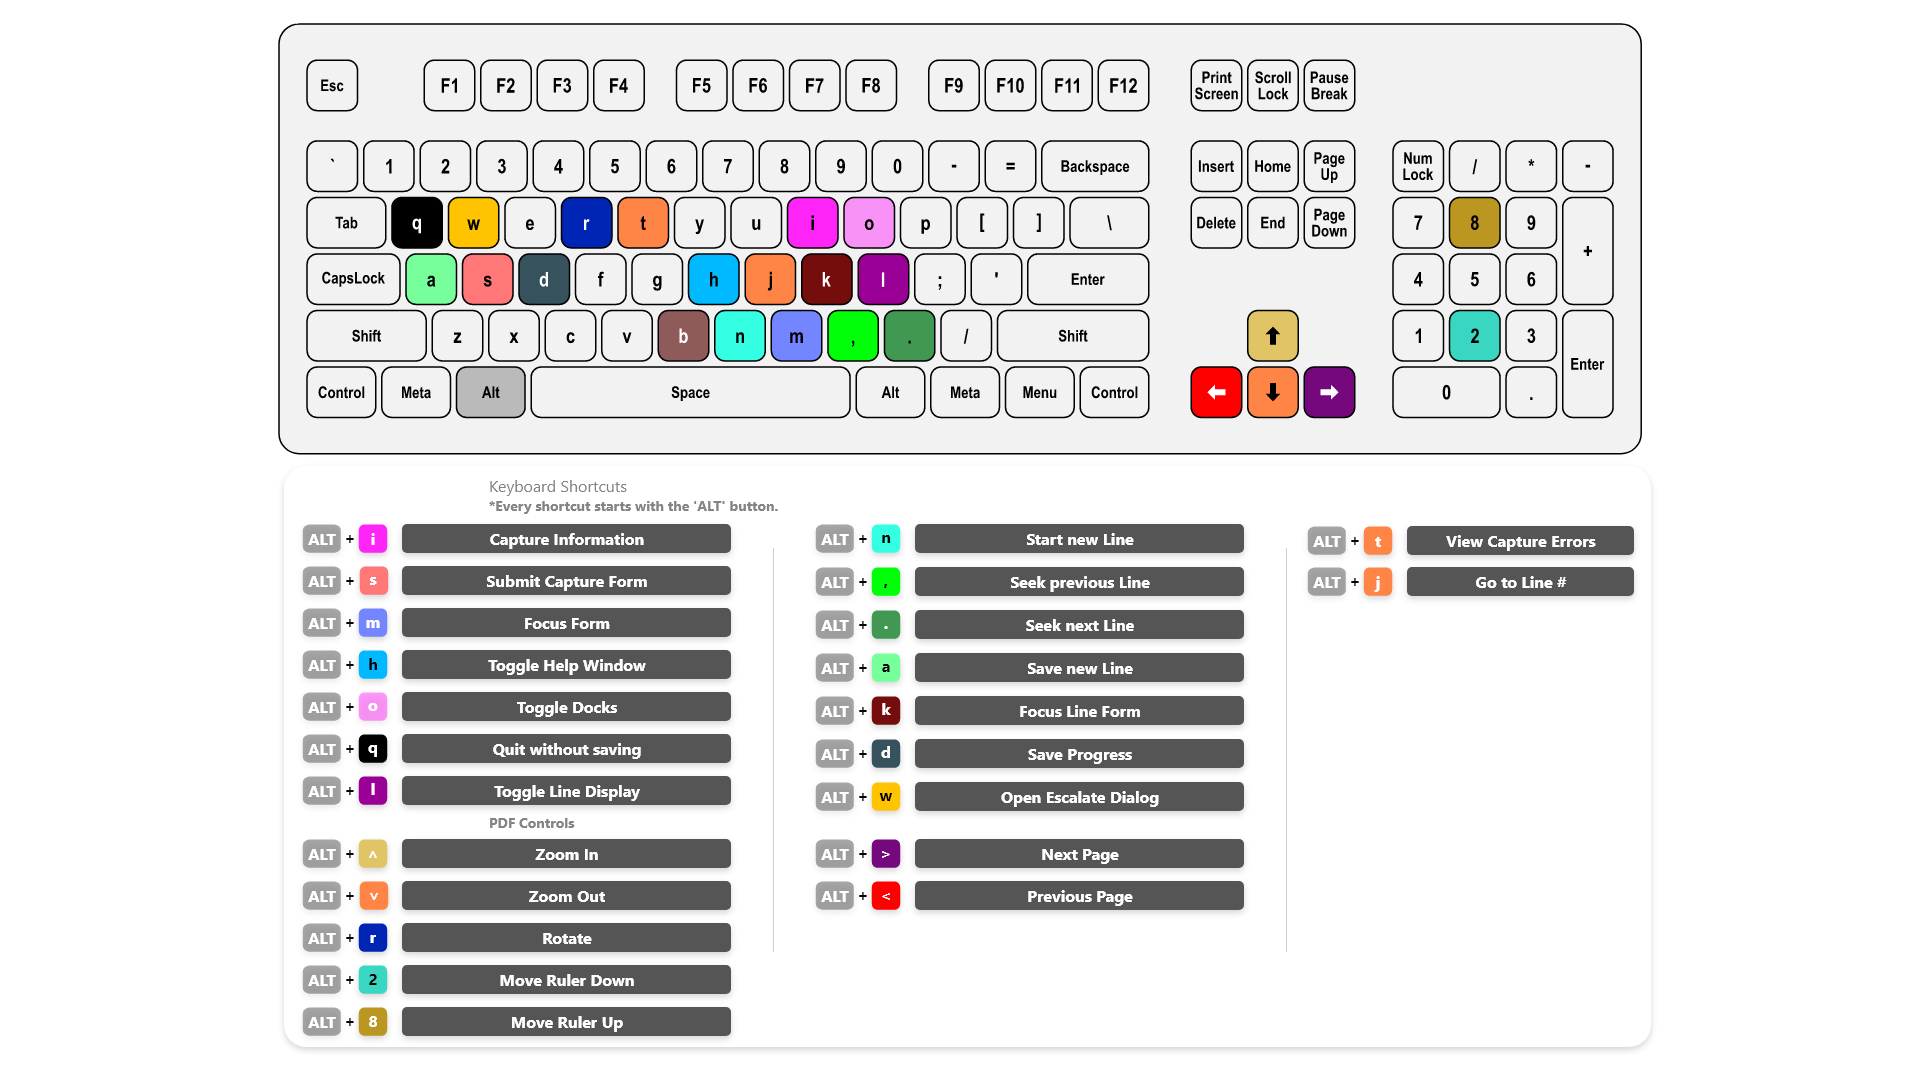
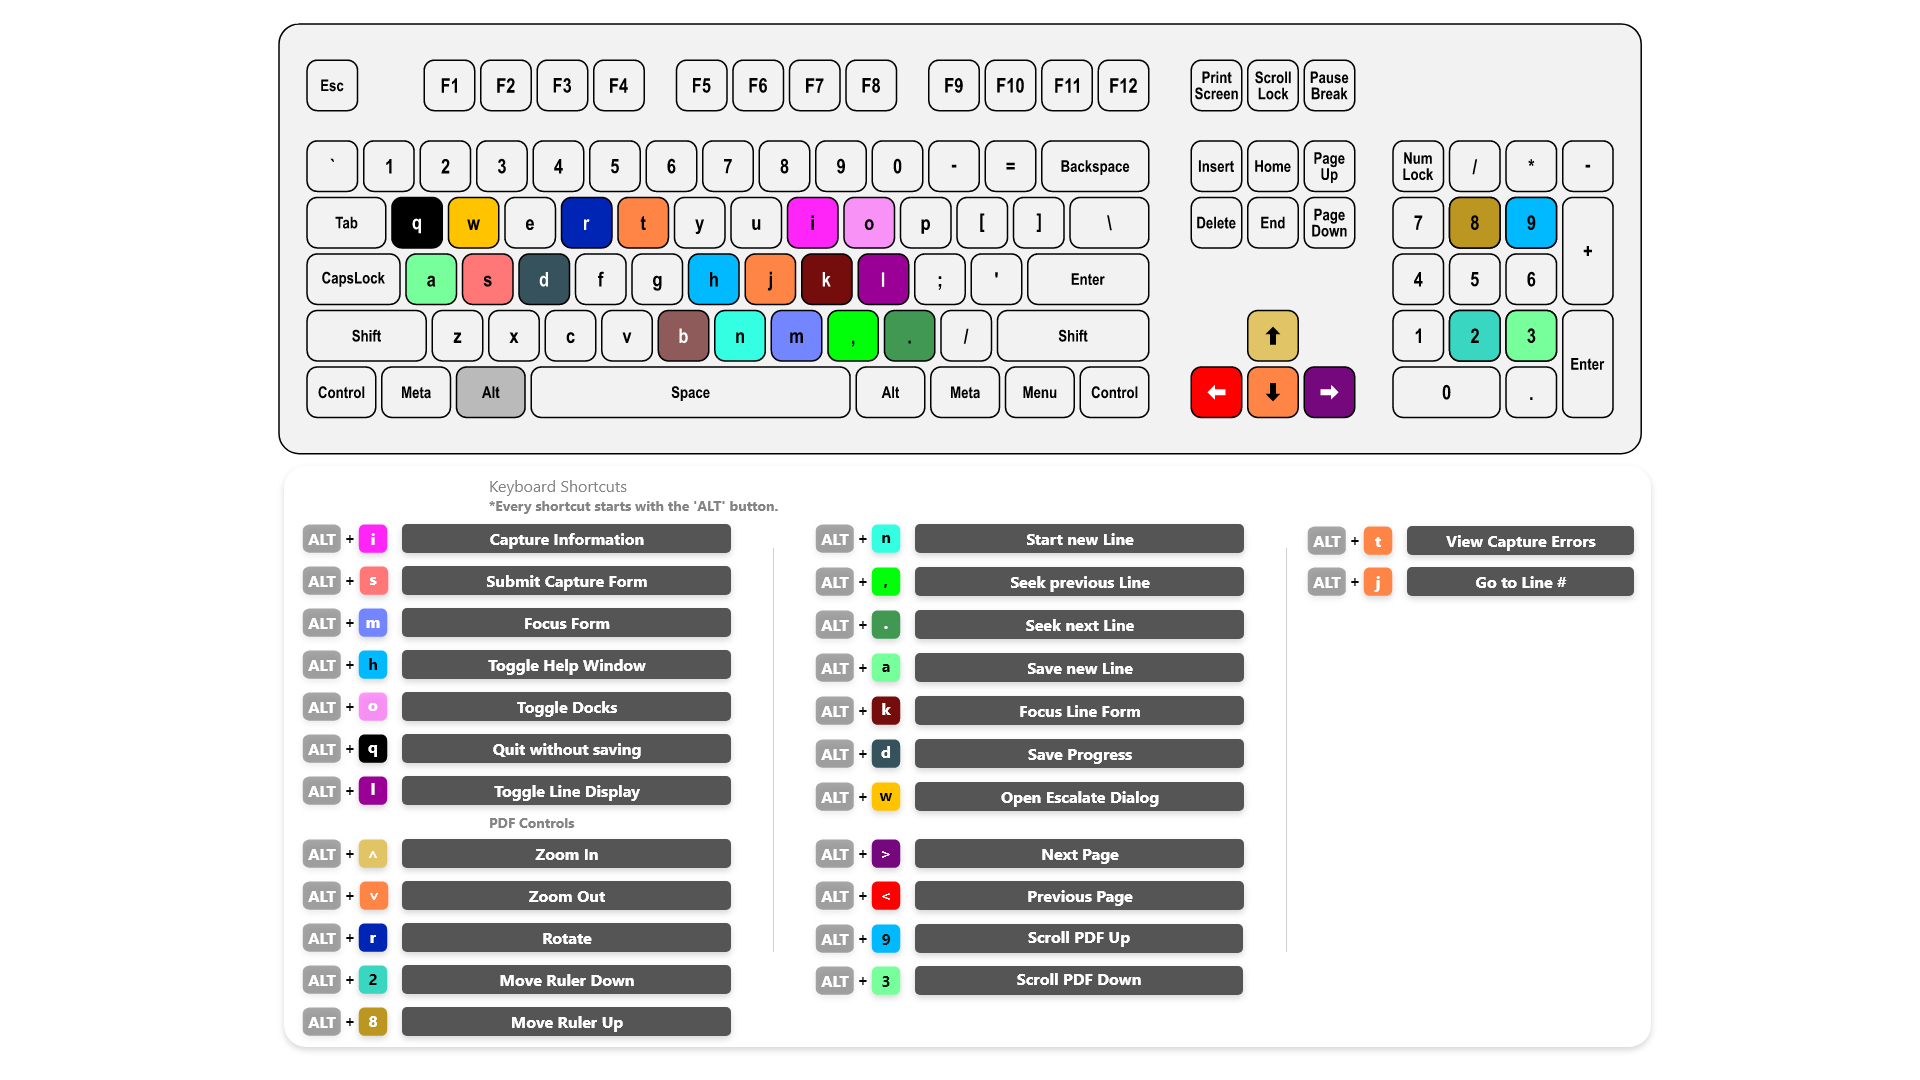
pdf scroll

Changed region(s): [[0.4062, 0.8556, 0.6562, 0.9472], [0.7812, 0.275, 0.8125, 0.3361], [0.7812, 0.1833, 0.8125, 0.2444]]

diff --git a/src/app/layouts/capture-layout/capture-layout.component.ts b/src/app/layouts/capture-layout/capture-layout.component.ts
@@ -88,8 +88,6 @@ export class CaptureLayoutComponent implements OnInit, AfterViewInit, OnDestroy 
   @ViewChild(KeyboardShortcutsComponent, { static: true })
   private keyboard: KeyboardShortcutsComponent;
 
-
-
   private unsubscribe$ = new Subject<void>();
 
   count = 0;
@@ -143,6 +141,10 @@ export class CaptureLayoutComponent implements OnInit, AfterViewInit, OnDestroy 
   captureData: any;
   currentDoctype: string;
   cursor = -1;
+
+  private pdfWrapper: HTMLElement;
+  private scrollTop = 0;
+  private scrollLeft = 0;
 
   ngOnInit() {
     this.objectHelpService.toggleHelp(true);
@@ -273,6 +275,8 @@ export class CaptureLayoutComponent implements OnInit, AfterViewInit, OnDestroy 
   }
 
   ngAfterViewInit(): void {
+    this.requestFullscreen();
+
     this.shortcuts.push(
         {
             key: 'alt + i',
@@ -377,9 +381,68 @@ export class CaptureLayoutComponent implements OnInit, AfterViewInit, OnDestroy 
           command: e => this.currentReaderPOS.y = this.currentReaderPOS.y - 15,
           key: 'alt + ]',
         },
+        {
+          preventDefault: true,
+          allowIn: [AllowIn.Textarea, AllowIn.Input],
+          command: e => {
+            this.scrollTop += 48;
+
+            const total = this.scrollTop + this.pdfWrapper.clientHeight;
+
+            if (total > this.pdfWrapper.scrollHeight) {
+              this.scrollTop = (this.pdfWrapper.scrollHeight - this.pdfWrapper.clientHeight);
+            }
+
+            this.pdfWrapper.scrollTo({ top: this.scrollTop, behavior: 'smooth' });
+
+          },
+          key: 'alt + 3',
+        },
+        {
+          preventDefault: true,
+          allowIn: [AllowIn.Textarea, AllowIn.Input],
+          command: e => {
+            this.scrollTop -= 48;
+
+            if (this.scrollTop <= 0) { this.scrollTop = 0; }
+
+            this.pdfWrapper.scrollTo({ top: this.scrollTop, behavior: 'smooth' });
+          },
+          key: 'alt + 9',
+        },
+        {
+          preventDefault: true,
+          allowIn: [AllowIn.Textarea, AllowIn.Input],
+          command: e => {
+            this.scrollLeft += 48;
+
+            const total = this.scrollLeft + this.pdfWrapper.clientWidth;
+
+            if (total > this.pdfWrapper.scrollWidth) {
+              this.scrollLeft = (this.pdfWrapper.scrollWidth - this.pdfWrapper.clientWidth);
+            }
+
+            this.pdfWrapper.scrollTo({ left: this.scrollLeft, behavior: 'smooth' });
+          },
+          key: 'alt + 6',
+        },
+        {
+          preventDefault: true,
+          allowIn: [AllowIn.Textarea, AllowIn.Input],
+          command: e => {
+            this.scrollLeft -= 48;
+
+            if (this.scrollLeft <= 0) { this.scrollLeft = 0; }
+
+            this.pdfWrapper.scrollTo({ left: this.scrollLeft, behavior: 'smooth' });
+          },
+          key: 'alt + 4',
+        },
     );
 
     this.keyboard.select('cmd + f').subscribe(e => console.log(e));
+
+    this.pdfWrapper = document.getElementById('pdfWrapper');
   }
 
   goBack() {
@@ -524,6 +587,8 @@ export class CaptureLayoutComponent implements OnInit, AfterViewInit, OnDestroy 
               this.attachmentID === attach.attachmentID ? attach.tooltip += ' - Current' : console.log() ;
             }
           });
+
+          console.log(this.pdfWrapper.scrollHeight);
         });
   }
 

diff --git a/src/app/views/main/view-transaction-files/linking-lines/linking-lines.component.ts b/src/app/views/main/view-transaction-files/linking-lines/linking-lines.component.ts
@@ -70,6 +70,10 @@ export class LinkingLinesComponent implements OnInit, OnDestroy, AfterViewInit {
   public warning: any;
   public loading = false;
 
+  private pdfWrapper: HTMLElement;
+  private scrollTop = 0;
+  private scrollLeft = 0;
+
   private currentUser: any = this.user.getCurrentUser();
   // tslint:disable-next-line: max-line-length
   public consultant = this.user.getCurrentUser().designation.toUpperCase() === 'CONSULTANT' || this.user.getCurrentUser().designation.toUpperCase() === 'ADMIN';
@@ -87,8 +91,6 @@ export class LinkingLinesComponent implements OnInit, OnDestroy, AfterViewInit {
   @ViewChild('startLines', { static: false }) firstLine: any;
 
   ngOnInit(): void {
-    this.requestFullscreen();
-
     this.transationService.observerCurrentAttachment()
     .subscribe((data) => {
       if (data) {
@@ -138,6 +140,8 @@ export class LinkingLinesComponent implements OnInit, OnDestroy, AfterViewInit {
   }
 
   ngAfterViewInit(): void {
+    this.requestFullscreen();
+
     this.shortcuts.push(
         {
             key: 'alt + l',
@@ -270,9 +274,68 @@ export class LinkingLinesComponent implements OnInit, OnDestroy, AfterViewInit {
         },
         key: 'alt + b',
       },
+      {
+        preventDefault: true,
+        allowIn: [AllowIn.Textarea, AllowIn.Input],
+        command: e => {
+          this.scrollTop += 24;
+
+          const total = this.scrollTop + this.pdfWrapper.clientHeight;
+
+          if (total > this.pdfWrapper.scrollHeight) {
+            this.scrollTop = (this.pdfWrapper.scrollHeight - this.pdfWrapper.clientHeight);
+          }
+
+          this.pdfWrapper.scrollTo({ top: this.scrollTop, behavior: 'smooth' });
+
+        },
+        key: 'alt + 3',
+      },
+      {
+        preventDefault: true,
+        allowIn: [AllowIn.Textarea, AllowIn.Input],
+        command: e => {
+          this.scrollTop -= 24;
+
+          if (this.scrollTop <= 0) { this.scrollTop = 0; }
+
+          this.pdfWrapper.scrollTo({ top: this.scrollTop, behavior: 'smooth' });
+        },
+        key: 'alt + 9',
+      },
+      {
+        preventDefault: true,
+        allowIn: [AllowIn.Textarea, AllowIn.Input],
+        command: e => {
+          this.scrollLeft += 24;
+
+          const total = this.scrollLeft + this.pdfWrapper.clientWidth;
+
+          if (total > this.pdfWrapper.scrollWidth) {
+            this.scrollLeft = (this.pdfWrapper.scrollWidth - this.pdfWrapper.clientWidth);
+          }
+
+          this.pdfWrapper.scrollTo({ left: this.scrollLeft, behavior: 'smooth' });
+
+        },
+        key: 'alt + 4',
+      },
+      {
+        preventDefault: true,
+        allowIn: [AllowIn.Textarea, AllowIn.Input],
+        command: e => {
+          this.scrollLeft -= 24;
+
+          if (this.scrollLeft <= 0) { this.scrollLeft = 0; }
+
+          this.pdfWrapper.scrollTo({ left: this.scrollLeft, behavior: 'smooth' });
+        },
+        key: 'alt + 6',
+      },
     );
 
     this.keyboard.select('cmd + f').subscribe(e => console.log(e));
+    this.pdfWrapper = document.getElementById('pdfWrapper');
   }
 
   async init() {

diff --git a/src/app/layouts/capture-layout/capture-layout.component.html b/src/app/layouts/capture-layout/capture-layout.component.html
@@ -58,7 +58,7 @@
     </div>
 </div>
 <div class="row" [style.backgroundImage]="'url(' + currentBackground + ')'">
-<div class="col-6 bg-light" style="overflow-y: auto; padding-top: 64px; padding-bottom: 64px;">
+<div #pdfWrapper id="pdfWrapper" class="col-6 bg-light" style="overflow: scroll; white-space: nowrap; padding-top: 64px; padding-bottom: 64px; height: 100vh;">
   <div class="reader-line" ngDraggable [inBounds]="true" [lockAxis]="'x'" [position]="{ x: this.currentReaderPOS.x, y: this.currentReaderPOS.y }">
     <span class="mdi mdi-drag" style="position: absolute; right: 14px; top: 1px;"></span>
   </div>

diff --git a/src/app/views/main/view-transaction-files/linking-lines/linking-lines.component.html b/src/app/views/main/view-transaction-files/linking-lines/linking-lines.component.html
@@ -3,7 +3,7 @@
 <mat-card style="background: #fafafa;" class="cover">
   <mat-card-content>
     <div class="row">
-      <div class="col-6 pdf-viewer-cont">
+      <div class="col-6 pdf-viewer-cont" id="pdfWrapper">
         <div class="reader-line" ngDraggable [inBounds]="true" [lockAxis]="'x'" [position]="{ x: this.currentReaderPOS.x, y: this.currentReaderPOS.y }">
           <span class="mdi mdi-drag" style="position: absolute; right: 14px; top: 1px;"></span>
         </div>
